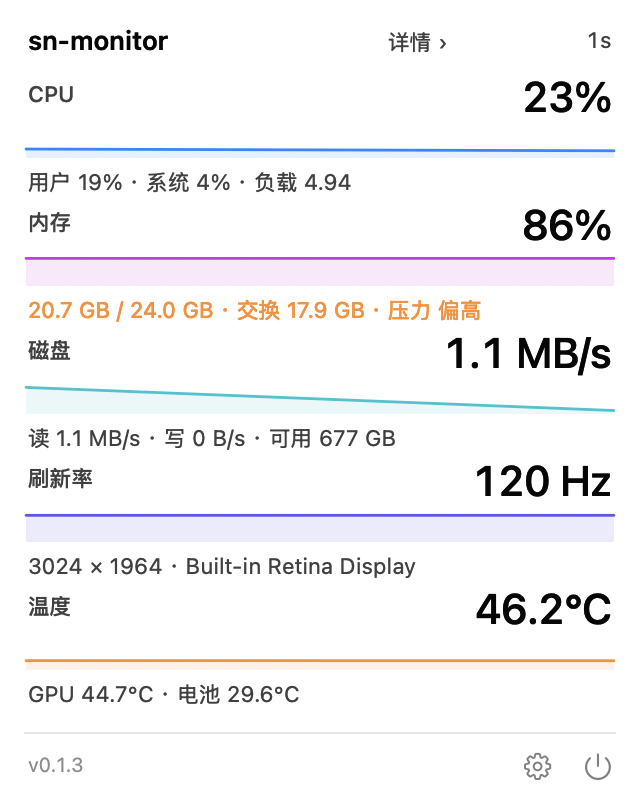
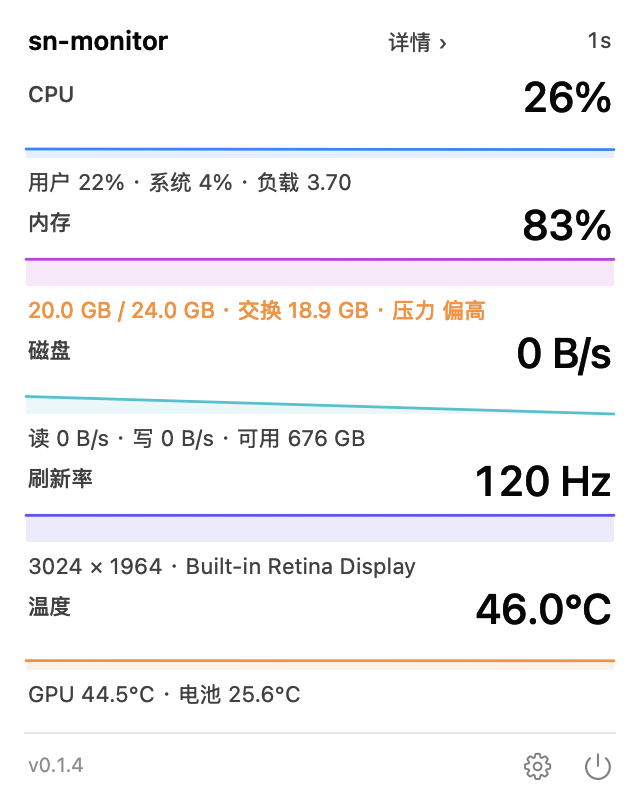
fix: show footprint memory in process details

diff --git a/Sources/SNMonitorCore/ProcessSampler.swift b/Sources/SNMonitorCore/ProcessSampler.swift
@@ -1,4 +1,5 @@
 import Foundation
+import Darwin
 
 /// One process entry for the details window.
 public struct ProcessUsage: Sendable, Identifiable {
@@ -6,7 +7,7 @@ public struct ProcessUsage: Sendable, Identifiable {
     public let name: String
     /// CPU usage in percent of one core (can exceed 100 for multithreaded processes).
     public let cpuPercent: Double
-    /// Resident set size in bytes.
+    /// Physical memory footprint in bytes.
     public let memoryBytes: UInt64
 
     public var id: Int32 { pid }
@@ -26,37 +27,37 @@ public enum ProcessSort: Sendable {
 
 /// Process list for the details window.
 ///
-/// `ps` is used instead of `proc_pidinfo` because the latter cannot read
-/// root-owned processes as a normal user; the top CPU consumer is often a
-/// system daemon (fseventsd, WindowServer, ...). `ps` is setuid root on macOS
-/// and therefore matches what users see in Activity Monitor / `ps`.
+/// Names and CPU come from `ps` (setuid root, so system daemons are included).
+/// Memory is `phys_footprint` via `proc_pid_rusage`; for root-owned processes
+/// that call is denied, so a one-time `top` snapshot per window supplies their
+/// footprint. This keeps the 1-second refresh cheap while matching Activity
+/// Monitor's memory numbers much more closely than RSS.
 public final class ProcessSampler {
+    private var rootFootprints: [Int32: UInt64] = [:]
+
     public init() {}
 
     public func reset() {
-        // No baseline is needed: `ps` already reports a recent CPU percentage.
+        rootFootprints.removeAll()
     }
 
     public func sample() -> [ProcessUsage] {
-        let process = Process()
-        process.executableURL = URL(fileURLWithPath: "/bin/ps")
-        process.arguments = ["-Ao", "pid=,pcpu=,rss=,comm="]
-        process.standardInput = FileHandle.nullDevice
-        process.standardError = FileHandle.nullDevice
-
-        let pipe = Pipe()
-        process.standardOutput = pipe
-
-        do {
-            try process.run()
-        } catch {
-            return []
+        let rows = Self.psRows()
+        if rootFootprints.isEmpty {
+            rootFootprints = Self.topFootprints()
         }
 
-        let data = pipe.fileHandleForReading.readDataToEndOfFile()
-        process.waitUntilExit()
-        guard process.terminationStatus == 0 else { return [] }
-        return Self.parse(String(decoding: data, as: UTF8.self))
+        return rows.map { row in
+            let footprint = Self.footprint(row.pid)
+                ?? rootFootprints[row.pid]
+                ?? row.memoryBytes
+            return ProcessUsage(
+                pid: row.pid,
+                name: row.name,
+                cpuPercent: row.cpuPercent,
+                memoryBytes: footprint
+            )
+        }
     }
 
     public static func top(
@@ -78,11 +79,71 @@ public final class ProcessSampler {
         return Array(sorted.prefix(limit))
     }
 
+    // MARK: - ps / top / footprint
+
+    private static func psRows() -> [ProcessUsage] {
+        guard let result = run("/bin/ps", ["-Ao", "pid=,pcpu=,rss=,comm="]) else {
+            return []
+        }
+        return parsePS(result.output).filter { $0.pid != result.pid }
+    }
+
+    private static func topFootprints() -> [Int32: UInt64] {
+        guard let result = run("/usr/bin/top", [
+            "-l", "1",
+            "-o", "mem",
+            "-n", "1000",
+            "-stats", "pid,mem",
+        ]) else {
+            return [:]
+        }
+        return parseTopMemory(result.output).filter { $0.key != result.pid }
+    }
+
+    private static func footprint(_ pid: Int32) -> UInt64? {
+        var info = rusage_info_v4()
+        let result = withUnsafeMutablePointer(to: &info) { pointer in
+            pointer.withMemoryRebound(to: rusage_info_t?.self, capacity: 1) {
+                proc_pid_rusage(pid, RUSAGE_INFO_V4, $0)
+            }
+        }
+        guard result == 0 else { return nil }
+        return info.ri_phys_footprint
+    }
+
+    private static func run(
+        _ path: String,
+        _ arguments: [String]
+    ) -> (output: String, pid: Int32)? {
+        let process = Process()
+        process.executableURL = URL(fileURLWithPath: path)
+        process.arguments = arguments
+        process.standardInput = FileHandle.nullDevice
+        process.standardError = FileHandle.nullDevice
+
+        let pipe = Pipe()
+        process.standardOutput = pipe
+
+        do {
+            try process.run()
+        } catch {
+            return nil
+        }
+
+        let pid = process.processIdentifier
+        let data = pipe.fileHandleForReading.readDataToEndOfFile()
+        process.waitUntilExit()
+        guard process.terminationStatus == 0 else { return nil }
+        return (String(decoding: data, as: UTF8.self), pid)
+    }
+
     /// Parses `ps -Ao pid=,pcpu=,rss=,comm=` output.
-    static func parse(_ output: String) -> [ProcessUsage] {
+    static func parsePS(_ output: String) -> [ProcessUsage] {
         var usages: [ProcessUsage] = []
         for line in output.split(separator: "\n") {
-            let fields = line.split(separator: " ", maxSplits: 3, omittingEmptySubsequences: true)
+            let fields = line
+                .split(separator: " ", maxSplits: 3, omittingEmptySubsequences: true)
+                .map { $0.trimmingCharacters(in: .whitespaces) }
             guard fields.count == 4,
                   let pid = Int32(fields[0]),
                   pid > 0,
@@ -91,7 +152,7 @@ public final class ProcessSampler {
                 continue
             }
 
-            let command = String(fields[3])
+            let command = fields[3]
             let name = URL(fileURLWithPath: command).lastPathComponent
             usages.append(ProcessUsage(
                 pid: pid,
@@ -101,5 +162,38 @@ public final class ProcessSampler {
             ))
         }
         return usages
+    }
+
+    /// Parses `top -l 1 ... -stats pid,mem` output.
+    static func parseTopMemory(_ output: String) -> [Int32: UInt64] {
+        var footprints: [Int32: UInt64] = [:]
+        for line in output.split(separator: "\n") {
+            let fields = line.split(whereSeparator: { $0 == " " || $0 == "\t" })
+            guard fields.count >= 2,
+                  let pid = Int32(fields[0]),
+                  pid > 0,
+                  let memory = parseMemory(fields[1]) else {
+                continue
+            }
+            footprints[pid] = memory
+        }
+        return footprints
+    }
+
+    static func parseMemory(_ text: Substring) -> UInt64? {
+        var value = text
+        while let last = value.last, last == "+" || last == "-" {
+            value = value.dropLast()
+        }
+        guard let unit = value.last, let amount = Double(value.dropLast()) else {
+            return nil
+        }
+        switch unit {
+        case "K": return UInt64(amount * 1024)
+        case "M": return UInt64(amount * 1024 * 1024)
+        case "G": return UInt64(amount * 1024 * 1024 * 1024)
+        case "B": return UInt64(amount)
+        default: return nil
+        }
     }
 }

diff --git a/Tests/SNMonitorCoreTests/SNMonitorCoreTests.swift b/Tests/SNMonitorCoreTests/SNMonitorCoreTests.swift
@@ -117,12 +117,30 @@ struct ProcessTests {
         521 100.0 957312 /System/Library/Frameworks/CoreServices.framework/FSEvents.framework/Support/fseventsd
         590  42.1 125424 /System/Library/PrivateFrameworks/SkyLight.framework/Resources/WindowServer
         """
-        let parsed = ProcessSampler.parse(output)
+        let parsed = ProcessSampler.parsePS(output)
         #expect(parsed.count == 3)
         #expect(parsed[0].name == "launchd")
         #expect(parsed[1].name == "fseventsd")
         #expect(parsed[1].cpuPercent == 100.0)
         #expect(parsed[1].memoryBytes == 957_312 * 1024)
         #expect(parsed[2].name == "WindowServer")
+    }
+
+    @Test("Parses top footprint output")
+    func parseTopMemory() {
+        let output = """
+        PID    MEM
+        521    4089M
+        28299  1802M-
+        590    1032M+
+        """
+        let footprints = ProcessSampler.parseTopMemory(output)
+        #expect(footprints[521] == 4089 * 1024 * 1024)
+        #expect(footprints[28299] == 1802 * 1024 * 1024)
+        #expect(footprints[590] == 1032 * 1024 * 1024)
+
+        #expect(ProcessSampler.parseMemory("512K") == 512 * 1024)
+        #expect(ProcessSampler.parseMemory("1G") == 1024 * 1024 * 1024)
+        #expect(ProcessSampler.parseMemory("N/A") == nil)
     }
 }

diff --git a/Sources/SNMonitorApp/ProcessDetailsWindowController.swift b/Sources/SNMonitorApp/ProcessDetailsWindowController.swift
@@ -88,7 +88,7 @@ final class ProcessDetailsViewController: NSViewController {
     private let memoryTitle = NSTextField(labelWithString: "内存占用 Top 10")
     private let cpuList = ProcessListView()
     private let memoryList = ProcessListView()
-    private let footer = NSTextField(labelWithString: "每秒刷新 · ps 口径 · 内存为 RSS 驻留集")
+    private let footer = NSTextField(labelWithString: "每秒刷新 · CPU 为 ps 口径 · 内存为 footprint")
 
     override func loadView() {
         let root = FlippedView(frame: NSRect(x: 0, y: 0, width: 680, height: 364))
@@ -115,7 +115,7 @@ final class ProcessDetailsViewController: NSViewController {
     func update(_ usages: [ProcessUsage]) {
         cpuList.items = ProcessSampler.top(usages, by: .cpu, limit: 10)
         memoryList.items = ProcessSampler.top(usages, by: .memory, limit: 10)
-        footer.stringValue = "每秒刷新 · ps 口径 · 内存为 RSS 驻留集 · "
+        footer.stringValue = "每秒刷新 · CPU 为 ps 口径 · 内存为 footprint · "
             + Date().formatted(date: .omitted, time: .standard)
     }
 

diff --git a/Sources/SNMonitorApp/AppDelegate.swift b/Sources/SNMonitorApp/AppDelegate.swift
@@ -124,7 +124,7 @@ final class AppDelegate: NSObject, NSApplicationDelegate, NSPopoverDelegate {
             DispatchQueue.main.asyncAfter(deadline: .now() + 2.0) { [weak self] in
                 guard let self else { return }
                 self.showProcessDetails()
-                DispatchQueue.main.asyncAfter(deadline: .now() + 1.2) { [weak self] in
+                DispatchQueue.main.asyncAfter(deadline: .now() + 2.5) { [weak self] in
                     self?.processDetails.snapshot(to: path)
                 }
             }
@@ -624,7 +624,7 @@ final class AppDelegate: NSObject, NSApplicationDelegate, NSPopoverDelegate {
     @objc private func showAbout() {
         NSApp.activate(ignoringOtherApps: true)
         let alert = NSAlert()
-        alert.messageText = "sn-monitor v0.1.3"
+        alert.messageText = "sn-monitor v0.1.4"
         alert.informativeText = """
         轻量 macOS 系统监视器：CPU、内存、磁盘、刷新率与温度。
 

diff --git a/Sources/SNMonitorApp/PanelViewController.swift b/Sources/SNMonitorApp/PanelViewController.swift
@@ -13,7 +13,7 @@ final class PanelViewController: NSViewController {
 
     private let headerLabel = NSTextField(labelWithString: "sn-monitor")
     private let intervalLabel = NSTextField(labelWithString: "1s")
-    private let versionLabel = NSTextField(labelWithString: "v0.1.3")
+    private let versionLabel = NSTextField(labelWithString: "v0.1.4")
     private let detailButton = NSButton(title: "详情 ›", target: nil, action: nil)
     private var rows: [MetricRowView] = []
 
@@ -142,7 +142,7 @@ final class PanelViewController: NSViewController {
     }
 
     func setMenuBarHint(_ hidden: Bool) {
-        versionLabel.stringValue = hidden ? "菜单栏已满 · ⌃⌥M" : "v0.1.3"
+        versionLabel.stringValue = hidden ? "菜单栏已满 · ⌃⌥M" : "v0.1.4"
         versionLabel.textColor = hidden ? .systemOrange : .tertiaryLabelColor
     }
 

diff --git a/docs/DESIGN.md b/docs/DESIGN.md
@@ -49,7 +49,7 @@ Sources/
 | 磁盘吞吐 | `IOBlockStorageDriver.Statistics` | 只统计整块物理盘，过滤磁盘镜像和 APFS 虚拟盘 |
 | 刷新率 | `CGDisplayCopyDisplayMode` | 主显示器名义刷新率 |
 | 温度 | AppleSMC（私有 IOKit API） | 启动探测候选 key；CPU 取 4 个、GPU 2 个、电池 1 个；2s 刷新 |
-| 进程 Top 10 | `/bin/ps -Ao pid,pcpu,rss,comm` | 含 root 系统进程；CPU 为 ps 口径；内存为 RSS；仅详情窗口打开时按 1s 采样 |
+| 进程 Top 10 | `ps` + `proc_pid_rusage` + 一次 `top` 快照 | 名称/CPU 来自 ps（含 root 系统进程）；内存为 footprint；仅详情窗口打开时采样 |
 
 单位：内存用二进制（24.0 GB = 24 GiB），磁盘用十进制（685 GB），速率用二进制。
 
@@ -63,9 +63,9 @@ Sources/
 ### 进程详情
 
 - 打开窗口后创建独立的 `ProcessSampler` 和 1s 定时器，关闭窗口即停止
-- 使用 `/bin/ps -Ao pid=,pcpu=,rss=,comm=`，而不是 `proc_pidinfo`：后者以普通用户身份读不到 root 进程，会把 fseventsd、WindowServer 等高占用系统进程漏掉，导致排行失真
-- `ps` 在 macOS 上是 setuid root，能给出与 `ps` / 活动监视器接近的完整排行；每次调用约 30ms，仅在详情窗口打开时发生
-- 内存列为 RSS，CPU 为 `ps` 的近期平均值
+- 名称/CPU 来自 `/bin/ps`：普通用户用 `proc_pidinfo` 读不到 root 进程，会把 fseventsd、WindowServer 漏掉；ps 是 setuid root，能给出完整排行。CPU 是 ps 的近期平均值
+- 内存优先用 `proc_pid_rusage` 的 `ri_phys_footprint`（活动监视器口径），而不是 RSS
+- root 进程的 rusage 会失败，因此在窗口打开时跑一次 `top -l 1 -stats pid,mem` 取得它们的 footprint 并缓存；之后每秒只跑 ps + rusage（约 50ms），不在循环里跑 top（top 单次约 0.8s CPU）
 - 详情窗口按需打开，属可接受的额外开销；常驻状态仍保持约 11 MB
 
 ## 资源占用（M5 / macOS 26 实测）
@@ -74,7 +74,7 @@ Sources/
 | --- | --- | --- |
 | 面板关闭 | 11.1–11.5 MB | 0.25–0.34% |
 | 面板打开 | 23–26 MB | 0.55–0.80% |
-| 详情窗口 | 约 38 MB 起（重绘瞬间更高） | 1.3–1.7% |
+| 详情窗口 | 约 80 MB（重绘时） | 1.6–2.5% |
 | 单次采样 | — | 0.6–3 ms |
 
 菜单栏文字重绘是最大单项成本。图标被遮挡时会跳过重绘。

diff --git a/CHANGELOG.md b/CHANGELOG.md
@@ -2,6 +2,15 @@
 
 All notable changes to this project will be documented in this file.
 
+## [0.1.4] - 2026-11-19
+
+### Fixed
+
+- Process details now show **footprint** instead of RSS, so memory rankings
+  match Activity Monitor much more closely. User processes use
+  `proc_pid_rusage`; root processes are filled from a one-time `top` snapshot
+  when the window opens. CPU keeps the complete `ps` ranking.
+
 ## [0.1.3] - 2026-11-19
 
 ### Fixed
